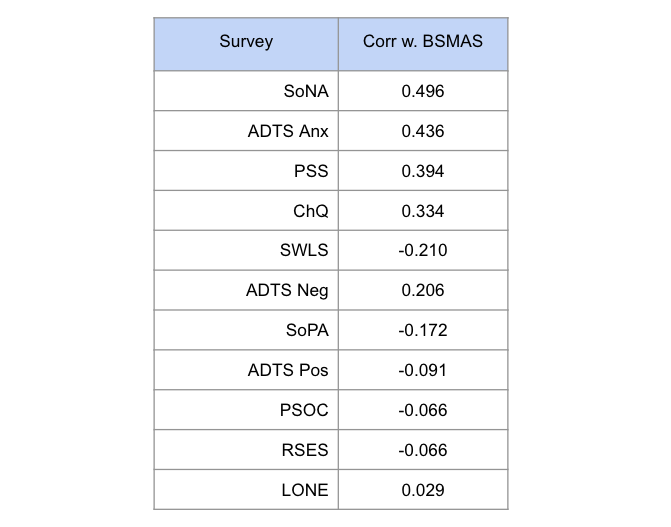
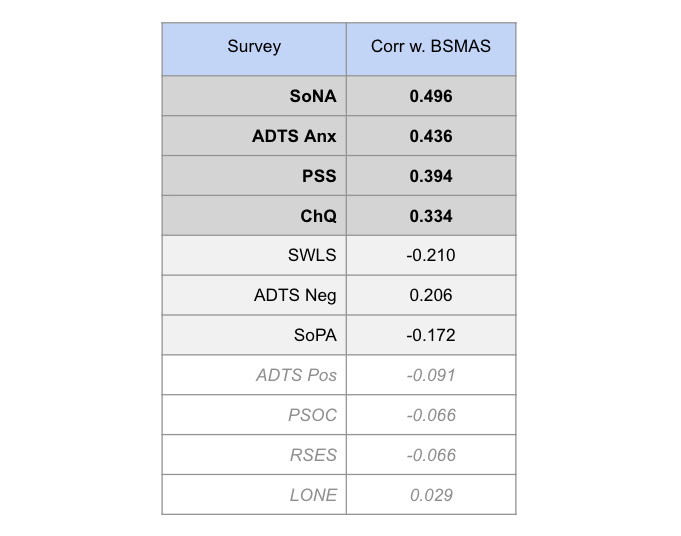
smc analysis updates, remove forgive mess message

Changed region(s): [[0.2086, 0.0304, 0.775, 0.9715]]

diff --git a/_site/projects/smc-analysis.html b/_site/projects/smc-analysis.html
@@ -136,25 +136,105 @@
     <img src="../assets/img/projects/smc-analysis/survey-count.png" />
 </figure>
 
-<h4 id="wellbeing-and-social-media-correlations">Wellbeing and Social Media: Correlations</h4>
+<h4 id="wellbeing-and-social-media">Wellbeing and Social Media</h4>
 
-<p>We start the investigation by asking what the relationship is between social media addiction (BSMAS) and the other surveys that relate to outcomes of wellbeing. We do this by looking at the pearson correlation (\(\rho\)) between the participant mean scores of the surveys and their BSMAS levels. Below is a table of correlations sorted by descending magnitude.</p>
+<p>We start the investigation by asking the high-level question: what is the relationship between social media and wellbeing?</p>
+
+<h5 id="wellbeing-and-social-media-addiction">Wellbeing and Social Media Addiction</h5>
+
+<p>To start, we investigate the relationship between addiction (BSMAS) and the other surveys that relate to outcomes of wellbeing. We do this by looking at the pearson correlation (\(\rho\)) between the participant mean scores of the surveys and their BSMAS levels. Below is a table of correlations sorted by descending magnitude.</p>
 
 <figure>
     <img src="../assets/img/projects/smc-analysis/bsmas-corr.png" />
     <figcaption>Table 4. Mean BSMAS &amp; Survey Correlations </figcaption>
 </figure>
 
-<p>TODO: talk about the table</p>
+<p>From this table, we can group correlations into three categories: moderate-strong (\(\rho \gt 0.3\)), moderate-weak (\(0.3 \gt \rho \gt 0.5\)), and weak (\(\rho \lt 0.15\)). The weak correlations indicate no clear linear relationship between mean BSMAS and the mean survey score, and so I will not discuss them further.</p>
+
+<h6 id="moderate-strong-correlations">Moderate-Strong Correlations</h6>
+<ul>
+  <li><b><u>SoNA</u></b>: Sense of Negative Agency
+    <ul>
+      <li>(\(\rho=0.496\))</li>
+      <li>The strong correlation with social media addiction is sense of negative agency, and this makes sense to intuition! Addiction undermines choice and agency by coopting the reward circuitry in the brain. Addicts report feeling as if they are not in control of their actions, and it appears that that pattern holds strongly for social media addicts as well.</li>
+    </ul>
+  </li>
+  <li><b><u>ADTS Anx</u></b>: Anxious Attitudes Towards Technology
+    <ul>
+      <li>(\(\rho=0.436\))</li>
+      <li>Anxious attitudes towards tech also has a strong correlation with addiction. This indicates that those addicted to social media may be experiencing more anxiety as a result, or use social media as relief from anxiety, or some combination of the two.</li>
+    </ul>
+  </li>
+  <li><b><u>PSS</u></b>: Perceived Stress
+    <ul>
+      <li>(\(\rho=0.394\))</li>
+      <li>Perceived stress likely shares a similar story with anxious attitudes in its relationship with social media addiction. Those with a heightened sense of stress may seek respite in social media, or they may experience more stress as a result of their addiction to social media, or some combination of both.</li>
+    </ul>
+  </li>
+  <li><b><u>ChQ</u></b>: Change Questionnaire
+    <ul>
+      <li>(\(\rho=0.334\))</li>
+      <li>Finally, we see a moderate-strong correlation between desire and motivation to change and social media addiction. This could suggest that those with social media addiction issues may themselves sense that something is “off” and consequently desire to change. Alternatively, time spent on social media could be making them feel unsatisfied with their lives, thus motivating change.</li>
+    </ul>
+  </li>
+</ul>
+
+<h6 id="moderate-weak-correlations">Moderate-Weak Correlations</h6>
+<ul>
+  <li><b><u>SWLS</u></b>: Life Satisfaction
+    <ul>
+      <li>(\(\rho=-0.210\))</li>
+      <li>Negatively correlated with social media addiction is life satisfaction. Perhaps low life satisfaction can lead to social media addiction or vice versa.</li>
+    </ul>
+  </li>
+  <li><b><u>ADTS Neg</u></b>: Negative Attitudes Towards Technology
+    <ul>
+      <li>(\(\rho=0.206\))</li>
+      <li>The correlation between negative attitudes towards technology and social media addiction suggests that those who have a low opinion of technology may also be at higher risk of addiction to it.</li>
+    </ul>
+  </li>
+  <li><b><u>SoPA</u></b>: Sense of Positive Agency
+    <ul>
+      <li>(\(\rho=-0.172\))</li>
+      <li>Finally, we see a negative correlation between social media addiction and a sense of positive agency. This is expected, because as was described above, addiction and agency typically do not coincide.</li>
+    </ul>
+  </li>
+</ul>
+
+<h5 id="wellbeing-and-social-media-platform">Wellbeing and Social Media Platform</h5>
+
+<p>What about the relationship between wellbeing and the specific social media platforms? Are some better or worse than others? To get at this question, we correlate survey scores with social media platform indicator variables.</p>
 
 <figure>
     <img src="../assets/img/projects/smc-analysis/corr-surveys-platforms.png" />
     <figcaption>Table 5. Survey Correlations with Social Media Platforms </figcaption>
 </figure>
 
-<p>TODO: talk about the table</p>
+<p>There are too many correlations to discuss meaningfully here, so I will make just a few observations of what I believe to represent a larger pattern.</p>
 
-<h4 id="does-social-media-addiction-make-it-harder-to-succeed">Does Social Media Addiction Make it Harder to Succeed?</h4>
+<ol>
+  <li><b>There are clear differences between platforms with respect to wellbeing.</b>
+    <ul>
+      <li>Take Reddit and TikTok. TikTok has the highest correlation with social media addiction compared to any other platform. Its associated with higher anxiety towards technology, lower self-esteem, lower sense of positive agency, and a higher sense of negative agency.</li>
+    </ul>
+  </li>
+  <li><b>There are tradeoffs in terms of wellbeing and social media platform choice.</b>
+    <ul>
+      <li>If we resume our comparison from above, for all of its merits, Reddit is also associated with low perceptions of social support whereas TikTok is associated with higher levels of social support.</li>
+    </ul>
+  </li>
+  <li><b>Social connection is highly varied across platforms.</b>
+    <ul>
+      <li>Despite its name, <i>social</i> media doesn’t appear to be consistenty social. Some platforms may be better at fostering social connection than others (see PSOC correlations). Or, certain platforms may attract people who have fewer social ties.</li>
+    </ul>
+  </li>
+</ol>
+
+<p>As mentioned before, there’s a lot more to get into here. Why is Facebook so strongly correlated with a sense of negative agency while instagram isn’t? Why are pinterest users so interested in change, while discord users are not? How often is there an overlap of useage between social media platforms? Which ones co-occur and which ones are usually mutually exclusive?</p>
+
+<p><br /></p>
+
+<h4 id="social-media-addiciton-and-stress">Social Media Addiciton and Stress</h4>
 
 <figure>
     <img src="../assets/img/projects/smc-analysis/bsmas_pss_corr.png" />

diff --git a/_site/index.html b/_site/index.html
@@ -80,7 +80,6 @@
           style="border-radius:250px;width:400px;display:block;margin-left:auto;margin-right:auto;">
     </a>
     <p style="text-align: center;">Data Scientist. Attention Advocate. And more!</p>
-    <p style="text-align: center;"><i>(Forgive the mess! nickhunkins.com is still under consruction)</i></p>
   </div>
 </section>
 <hr>
@@ -88,18 +87,18 @@
   <div class="project-container">
     <h1 style="text-align: center; font-variant: small-caps; color:#716262">projects</h1>
     
-      <a href="/projects/prism">
-        <div class="project-unit" data-folder="/projects/prism" style="background-image: url(/assets/img/projects/prism/thumbnail.jpg)">
-          <div class="project-overlay">
-            <strong>PRISM <i class="fa fa-arrow-right" aria-hidden="true"></i></strong>
-          </div>
-        </div>
-      </a>
-    
       <a href="/projects/smc-analysis">
         <div class="project-unit" data-folder="/projects/smc-analysis" style="background-image: url(/assets/img/projects/smc-analysis/thumbnail.jpg)">
           <div class="project-overlay">
             <strong>Social Media Challenge: Data Analysis <i class="fa fa-arrow-right" aria-hidden="true"></i></strong>
+          </div>
+        </div>
+      </a>
+    
+      <a href="/projects/prism">
+        <div class="project-unit" data-folder="/projects/prism" style="background-image: url(/assets/img/projects/prism/thumbnail.jpg)">
+          <div class="project-overlay">
+            <strong>PRISM <i class="fa fa-arrow-right" aria-hidden="true"></i></strong>
           </div>
         </div>
       </a>

diff --git a/_includes/projects.html b/_includes/projects.html
@@ -5,7 +5,6 @@
           style="border-radius:250px;width:400px;display:block;margin-left:auto;margin-right:auto;">
     </a>
     <p style="text-align: center;">Data Scientist. Attention Advocate. And more!</p>
-    <p style="text-align: center;"><i>(Forgive the mess! nickhunkins.com is still under consruction)</i></p>
   </div>
 </section>
 <hr>

diff --git a/_site/assets/css/projectstyles.css b/_site/assets/css/projectstyles.css
@@ -36,7 +36,16 @@ h5 {
   font-size: 18px;
   font-style: italic;
   padding-top: 20px;
-  padding-left: 10px;
+  padding-left: 7px;
+  margin-bottom: 10px;
+}
+
+h6 {
+  text-align: left;
+  font-size: 15px;
+  font-style: italic;
+  padding-top: 20px;
+  padding-left: 15px;
   margin-bottom: 10px;
 }
 

diff --git a/assets/css/projectstyles.css b/assets/css/projectstyles.css
@@ -36,7 +36,16 @@ h5 {
   font-size: 18px;
   font-style: italic;
   padding-top: 20px;
-  padding-left: 10px;
+  padding-left: 7px;
+  margin-bottom: 10px;
+}
+
+h6 {
+  text-align: left;
+  font-size: 15px;
+  font-style: italic;
+  padding-top: 20px;
+  padding-left: 15px;
   margin-bottom: 10px;
 }
 

diff --git a/projects/smc-analysis.md b/projects/smc-analysis.md
@@ -61,28 +61,74 @@ While each student ideally completed five rounds of surveys (an initial survey a
 
 
 
-#### Wellbeing and Social Media: Correlations
+#### Wellbeing and Social Media
 
-We start the investigation by asking what the relationship is between social media addiction (BSMAS) and the other surveys that relate to outcomes of wellbeing. We do this by looking at the pearson correlation ($$\rho$$) between the participant mean scores of the surveys and their BSMAS levels. Below is a table of correlations sorted by descending magnitude.
+We start the investigation by asking the high-level question: what is the relationship between social media and wellbeing?
+
+
+##### Wellbeing and Social Media Addiction
+
+To start, we investigate the relationship between addiction (BSMAS) and the other surveys that relate to outcomes of wellbeing. We do this by looking at the pearson correlation ($$\rho$$) between the participant mean scores of the surveys and their BSMAS levels. Below is a table of correlations sorted by descending magnitude.
 
 <figure>
     <img src="../assets/img/projects/smc-analysis/bsmas-corr.png">
     <figcaption>Table 4. Mean BSMAS & Survey Correlations </figcaption>
 </figure>
 
-TODO: talk about the table
+From this table, we can group correlations into three categories: moderate-strong ($$\rho \gt 0.3$$), moderate-weak ($$0.3 \gt \rho \gt 0.5$$), and weak ($$\rho \lt 0.15$$). The weak correlations indicate no clear linear relationship between mean BSMAS and the mean survey score, and so I will not discuss them further.
+
+###### Moderate-Strong Correlations
+- <b><u>SoNA</u></b>: Sense of Negative Agency 
+    - ($$\rho=0.496$$)
+    - The strong correlation with social media addiction is sense of negative agency, and this makes sense to intuition! Addiction undermines choice and agency by coopting the reward circuitry in the brain. Addicts report feeling as if they are not in control of their actions, and it appears that that pattern holds strongly for social media addicts as well.
+- <b><u>ADTS Anx</u></b>: Anxious Attitudes Towards Technology
+    - ($$\rho=0.436$$)
+    - Anxious attitudes towards tech also has a strong correlation with addiction. This indicates that those addicted to social media may be experiencing more anxiety as a result, or use social media as relief from anxiety, or some combination of the two.
+- <b><u>PSS</u></b>: Perceived Stress
+    - ($$\rho=0.394$$)
+    - Perceived stress likely shares a similar story with anxious attitudes in its relationship with social media addiction. Those with a heightened sense of stress may seek respite in social media, or they may experience more stress as a result of their addiction to social media, or some combination of both.
+- <b><u>ChQ</u></b>: Change Questionnaire 
+    - ($$\rho=0.334$$)
+    - Finally, we see a moderate-strong correlation between desire and motivation to change and social media addiction. This could suggest that those with social media addiction issues may themselves sense that something is "off" and consequently desire to change. Alternatively, time spent on social media could be making them feel unsatisfied with their lives, thus motivating change.
+
+
+###### Moderate-Weak Correlations
+- <b><u>SWLS</u></b>: Life Satisfaction
+    - ($$\rho=-0.210$$)
+    - Negatively correlated with social media addiction is life satisfaction. Perhaps low life satisfaction can lead to social media addiction or vice versa.
+- <b><u>ADTS Neg</u></b>: Negative Attitudes Towards Technology
+    - ($$\rho=0.206$$)
+    - The correlation between negative attitudes towards technology and social media addiction suggests that those who have a low opinion of technology may also be at higher risk of addiction to it. 
+- <b><u>SoPA</u></b>: Sense of Positive Agency
+    - ($$\rho=-0.172$$)
+    - Finally, we see a negative correlation between social media addiction and a sense of positive agency. This is expected, because as was described above, addiction and agency typically do not coincide.
+
+
+##### Wellbeing and Social Media Platform
+
+What about the relationship between wellbeing and the specific social media platforms? Are some better or worse than others? To get at this question, we correlate survey scores with social media platform indicator variables.
 
 <figure>
     <img src="../assets/img/projects/smc-analysis/corr-surveys-platforms.png">
     <figcaption>Table 5. Survey Correlations with Social Media Platforms </figcaption>
 </figure>
 
-TODO: talk about the table
+
+There are too many correlations to discuss meaningfully here, so I will make just a few observations of what I believe to represent a larger pattern. 
+
+1. <b>There are clear differences between platforms with respect to wellbeing.</b>
+    - Take Reddit and TikTok. TikTok has the highest correlation with social media addiction compared to any other platform. Its associated with higher anxiety towards technology, lower self-esteem, lower sense of positive agency, and a higher sense of negative agency. 
+2. <b>There are tradeoffs in terms of wellbeing and social media platform choice.</b>
+    - If we resume our comparison from above, for all of its merits, Reddit is also associated with low perceptions of social support whereas TikTok is associated with higher levels of social support.
+3.  <b>Social connection is highly varied across platforms.</b>
+    - Despite its name, <i>social</i> media doesn't appear to be consistenty social. Some platforms may be better at fostering social connection than others (see PSOC correlations). Or, certain platforms may attract people who have fewer social ties.
+
+As mentioned before, there's a lot more to get into here. Why is Facebook so strongly correlated with a sense of negative agency while instagram isn't? Why are pinterest users so interested in change, while discord users are not? How often is there an overlap of useage between social media platforms? Which ones co-occur and which ones are usually mutually exclusive? 
 
 
+<br>
 
-
-#### Does Social Media Addiction Make it Harder to Succeed?
+#### Social Media Addiciton and Stress
 
 <figure>
     <img src="../assets/img/projects/smc-analysis/bsmas_pss_corr.png">
